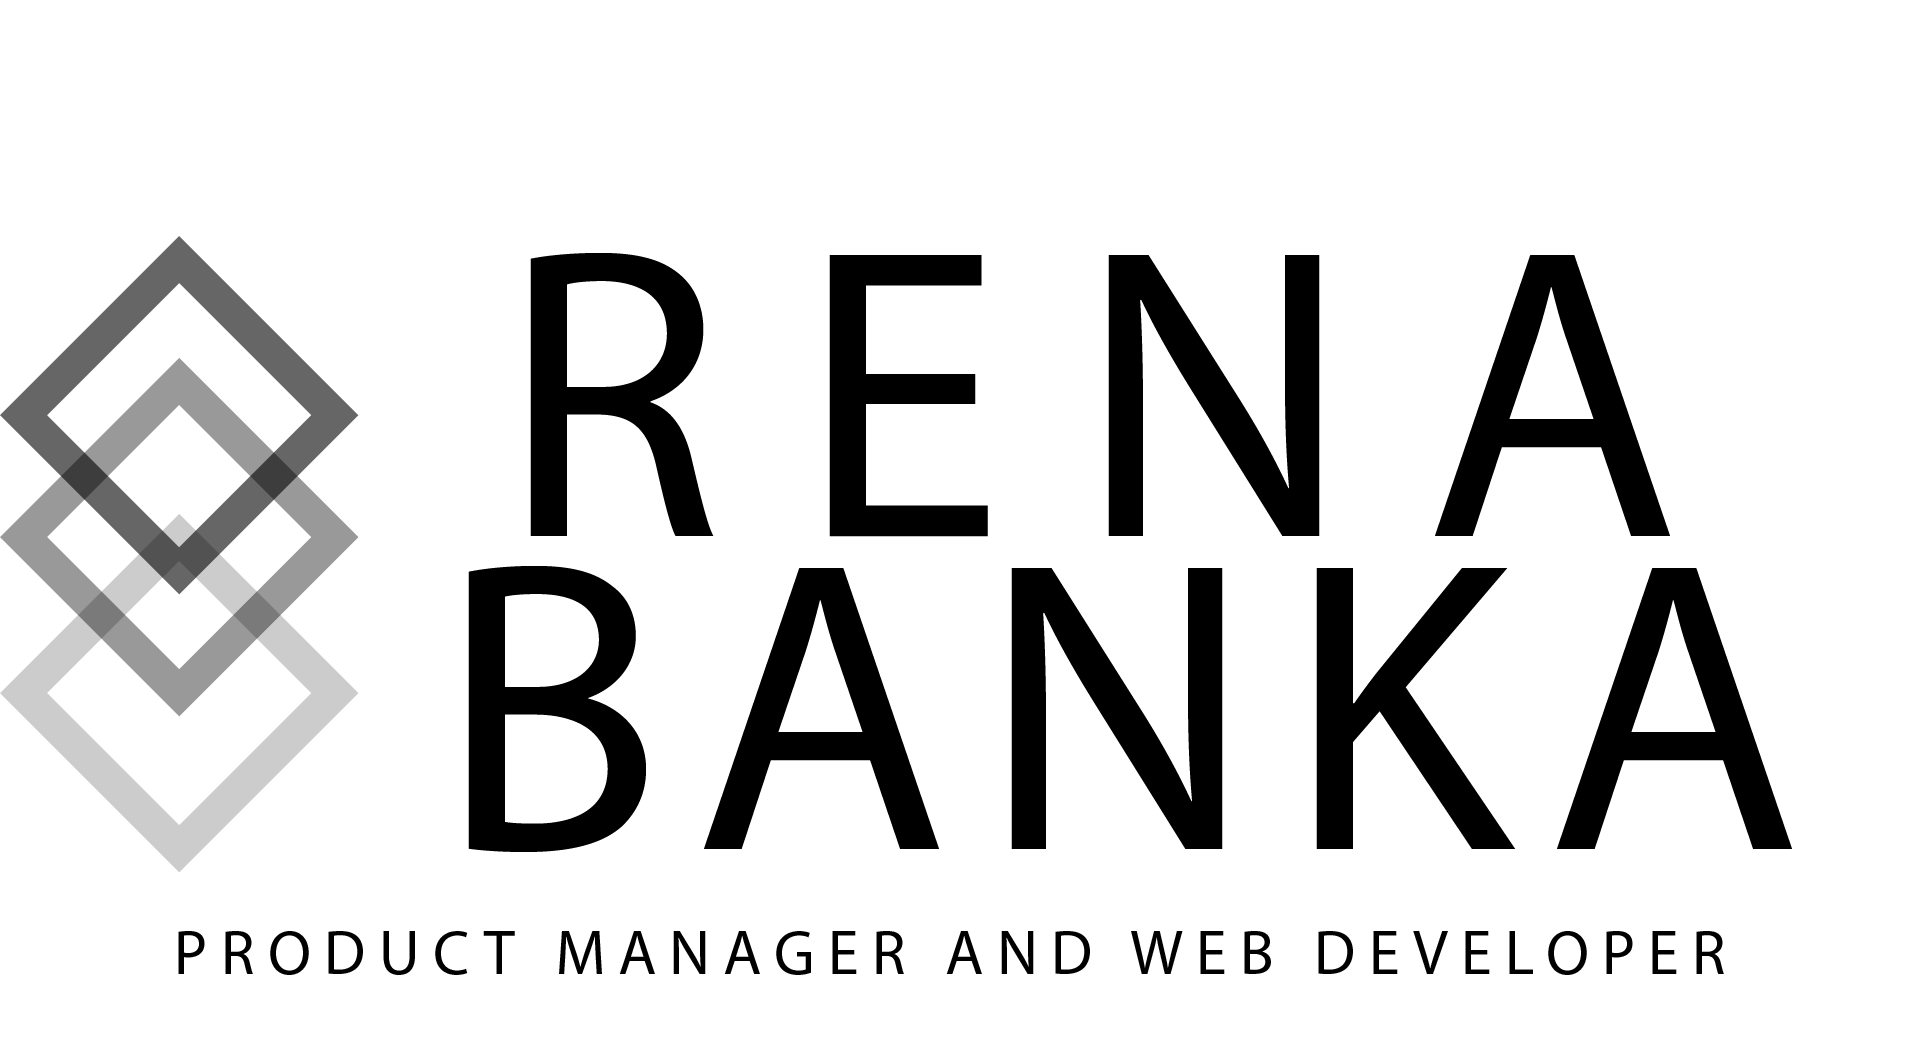
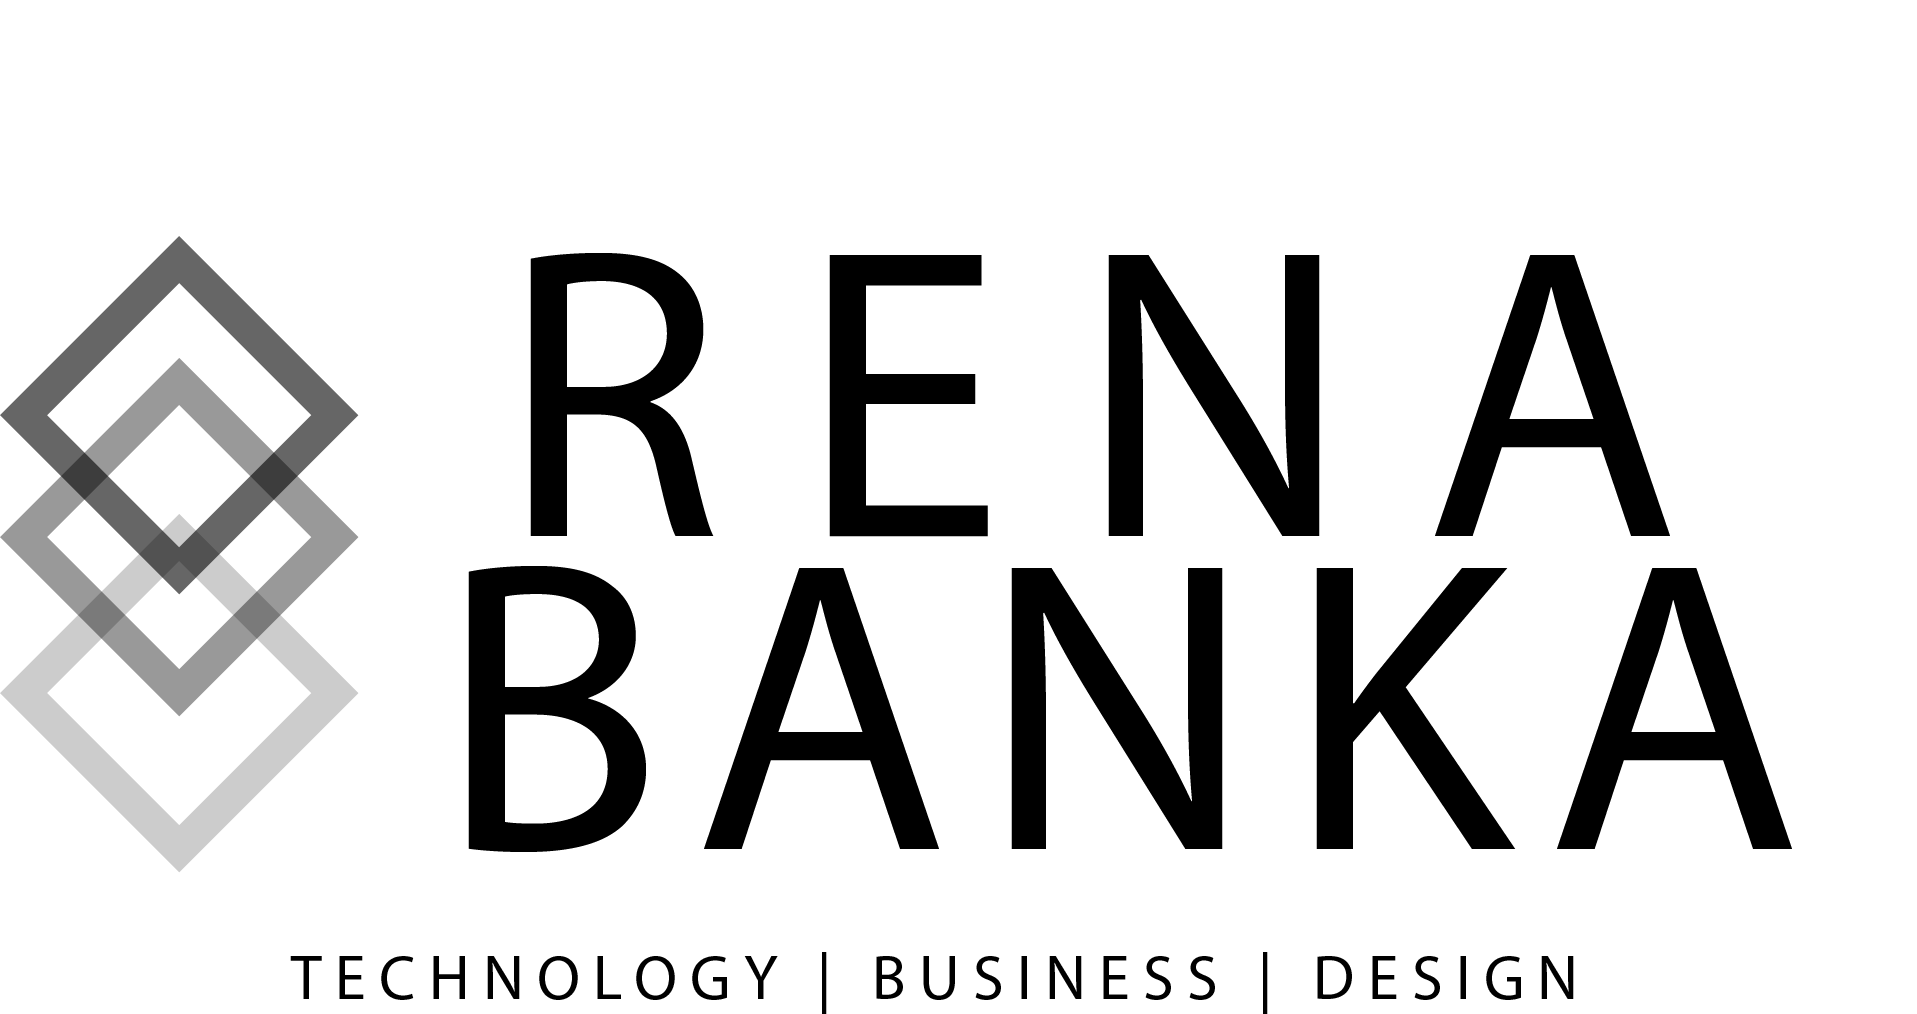
changes4

diff --git a/public/ngViews/about.html b/public/ngViews/about.html
@@ -36,14 +36,14 @@ Bachelor of Arts, Economics</p>
         <div class="sociallinks">
             <br>
             <h2 class='pictext'>Rena Banka</h2><br>
-            <h7 class='pictext'>Technology.Business.Design.</h7><br>
+            <h7 class='pictext'>Technology. Business. Design</h7><br>
             <a target="_blank" href="https://www.linkedin.com/in/rena-banka"><img src="images/linkedin.png" height=30px width=30px alt="" class='pictext2'></a>
             <a target="_blank" href="https://github.com/renabanka"><img src="images/github-logo.png" height=30px width=30px alt="" class='pictext2'></a>
             <a target="_blank" href="mailto:renabanka@gmail.com"> <img src="images/google-plus.png" height=30px width=30px alt="" class='pictext2'></a>
             <a target="_blank" href="https://www.instagram.com/renabankaphotography/?hl=en"> <img src="images/instagram.png" height=30px width=30px alt="" class='pictext2'></a>
 
-            <form method="get" action="images/resume.pdf" target="_blank" class='pictext2'>
-                <button type="submit">VIEW RESUME</button>
+            <form method="get" action="mailto:renabanka@gmail.com" target="_blank" class='pictext2'>
+                <button type="submit">CONTACT FOR RESUME</button>
             </form>
 
         </div>

diff --git a/public/ngViews/development.html b/public/ngViews/development.html
@@ -39,6 +39,7 @@
             </div>
         </div>
 
+        <br><br>
 
         <div class="row">
             <div id="projectphoto" class="five columns">
@@ -54,10 +55,6 @@
                 </form>
             </div>
         </div>
-
-        <br><br>
-
-        
 
         <br><br>
 
